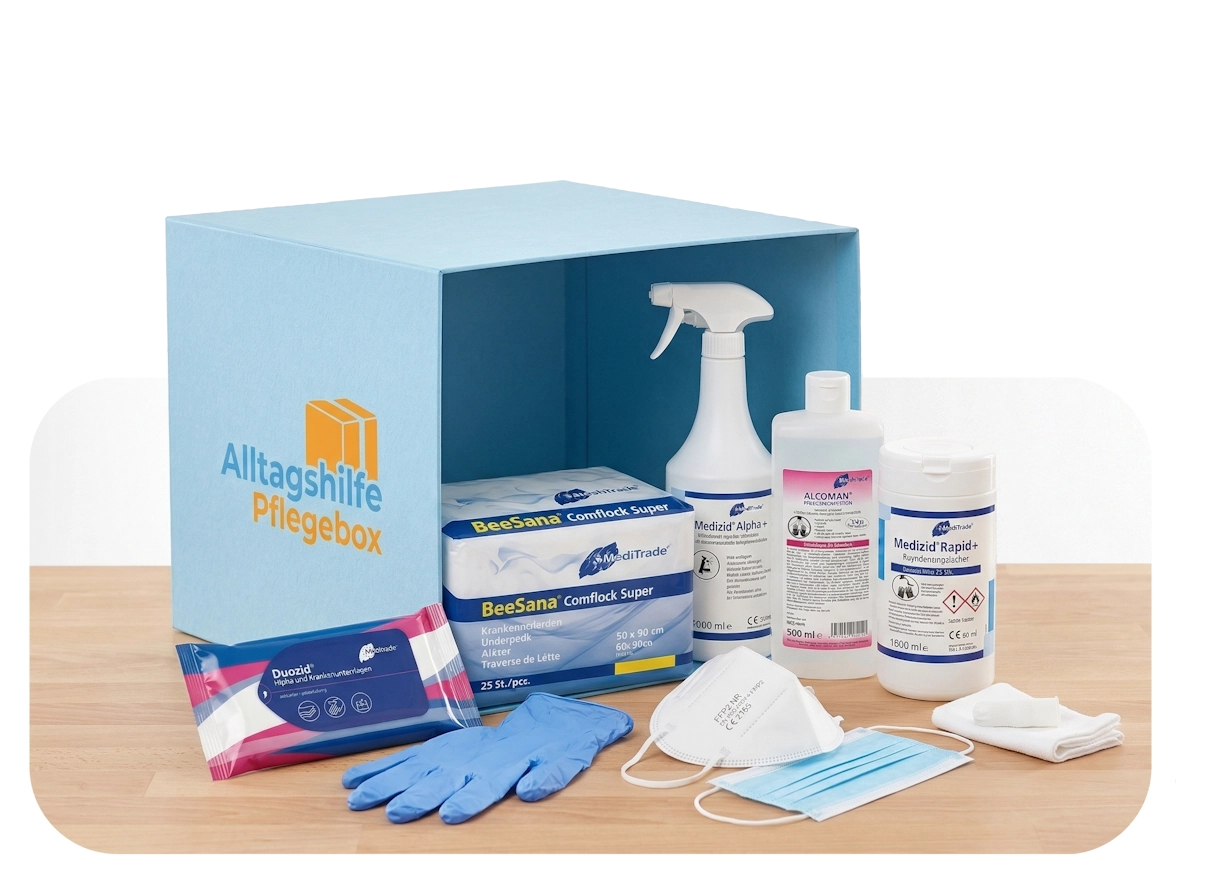
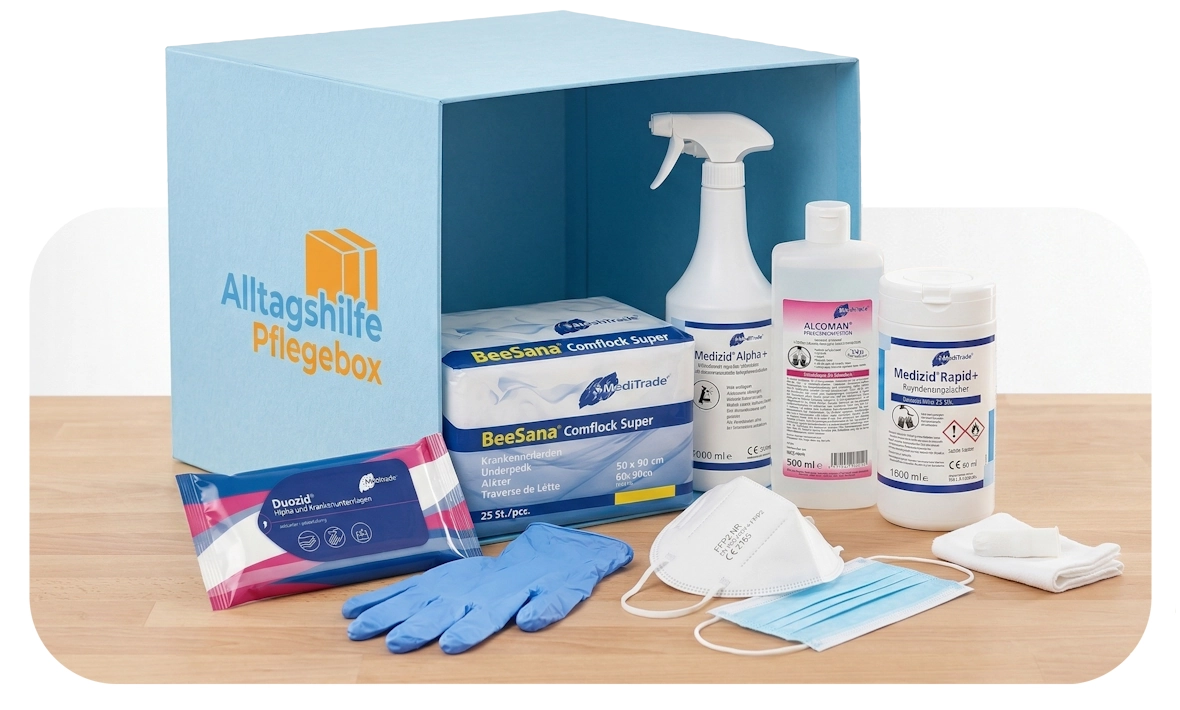
Pflegehilfsmittel-Landing: Hero-Abstand wie Startseite, Bild 5 % groesser
Made-with: Cursor

diff --git a/components/pflegehilfsmittel/KostenfreiePflegehilfsmittelLanding.tsx b/components/pflegehilfsmittel/KostenfreiePflegehilfsmittelLanding.tsx
@@ -94,8 +94,8 @@ export function KostenfreiePflegehilfsmittelLanding() {
   return (
     <div className="bg-[#fafbfc] text-neutral-700 antialiased">
       <article id="kostenfreie-hero" className="scroll-mt-24">
-        <section className="mx-auto flex max-w-7xl flex-col-reverse items-center gap-10 px-4 pb-12 pt-10 sm:px-6 sm:pb-16 sm:pt-12 lg:flex-row lg:gap-12 lg:px-8 lg:pb-20 lg:pt-6">
-          <div className="w-full space-y-6 lg:w-1/2 lg:-translate-x-[21%] lg:pt-[10%]">
+        <section className="mx-auto flex max-w-7xl flex-col-reverse items-center gap-10 px-4 pb-12 pt-0 sm:px-6 sm:pb-16 lg:flex-row lg:gap-12 lg:px-8 lg:pb-20">
+          <div className="w-full space-y-6 lg:w-1/2 lg:-translate-x-[21%]">
             <h1
               className="text-balance text-3xl font-extrabold leading-tight tracking-tight text-[#0F4F68] opacity-0 motion-reduce:opacity-100 animate-fade-in-up sm:text-4xl lg:text-5xl"
               style={{ animationDelay: "0s" }}
@@ -156,7 +156,7 @@ export function KostenfreiePflegehilfsmittelLanding() {
                   height={845}
                   decoding="async"
                   fetchPriority="high"
-                  className={`h-auto w-full max-w-full origin-center object-contain motion-reduce:translate-x-0 motion-reduce:translate-y-0 motion-reduce:scale-100 max-lg:mx-auto max-lg:translate-x-0 max-lg:-translate-y-2 max-lg:scale-100 lg:translate-x-10 lg:-translate-y-8 lg:scale-[1.463] xl:translate-x-14 xl:-translate-y-10 ${KOSTENFREI_HERO_GLOW_CLASS}`}
+                  className={`h-auto w-full max-w-full origin-center object-contain motion-reduce:translate-x-0 motion-reduce:translate-y-0 motion-reduce:scale-[1.05] max-lg:mx-auto max-lg:translate-x-0 max-lg:-translate-y-2 max-lg:scale-[1.05] lg:translate-x-10 lg:-translate-y-8 lg:scale-[1.536] xl:translate-x-14 xl:-translate-y-10 ${KOSTENFREI_HERO_GLOW_CLASS}`}
                 />
               </div>
             </div>
